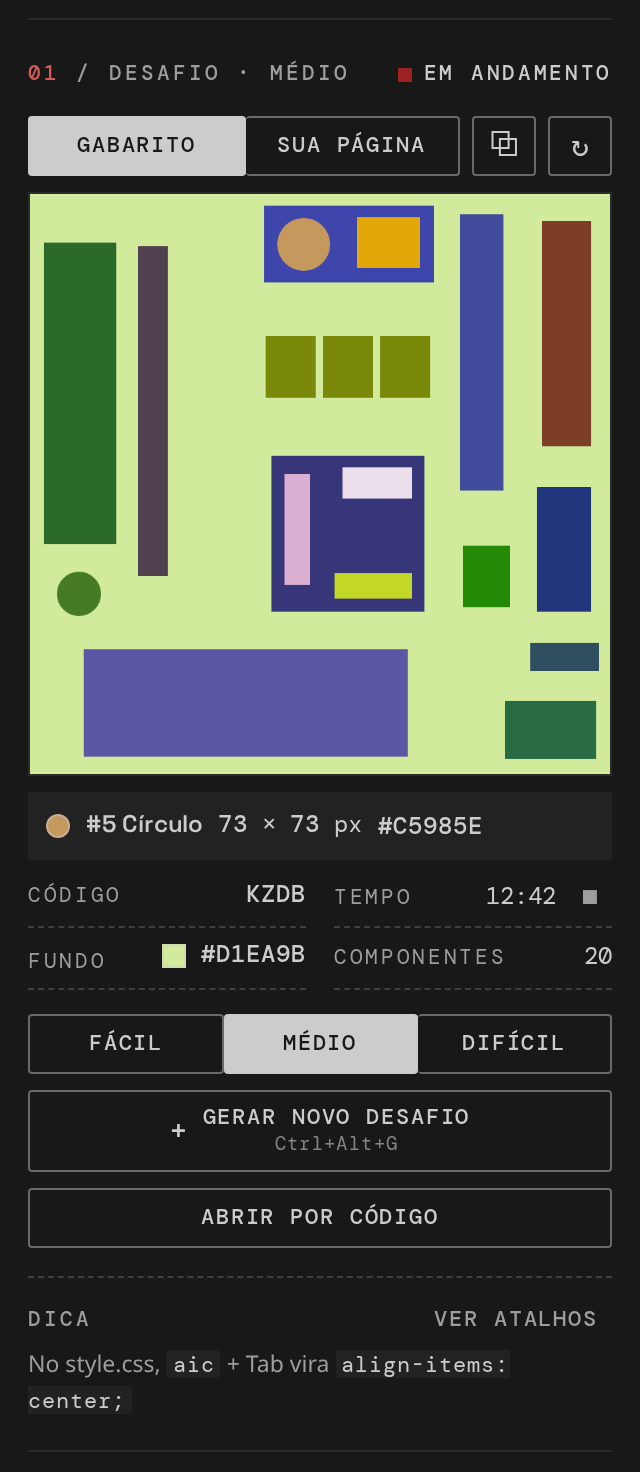
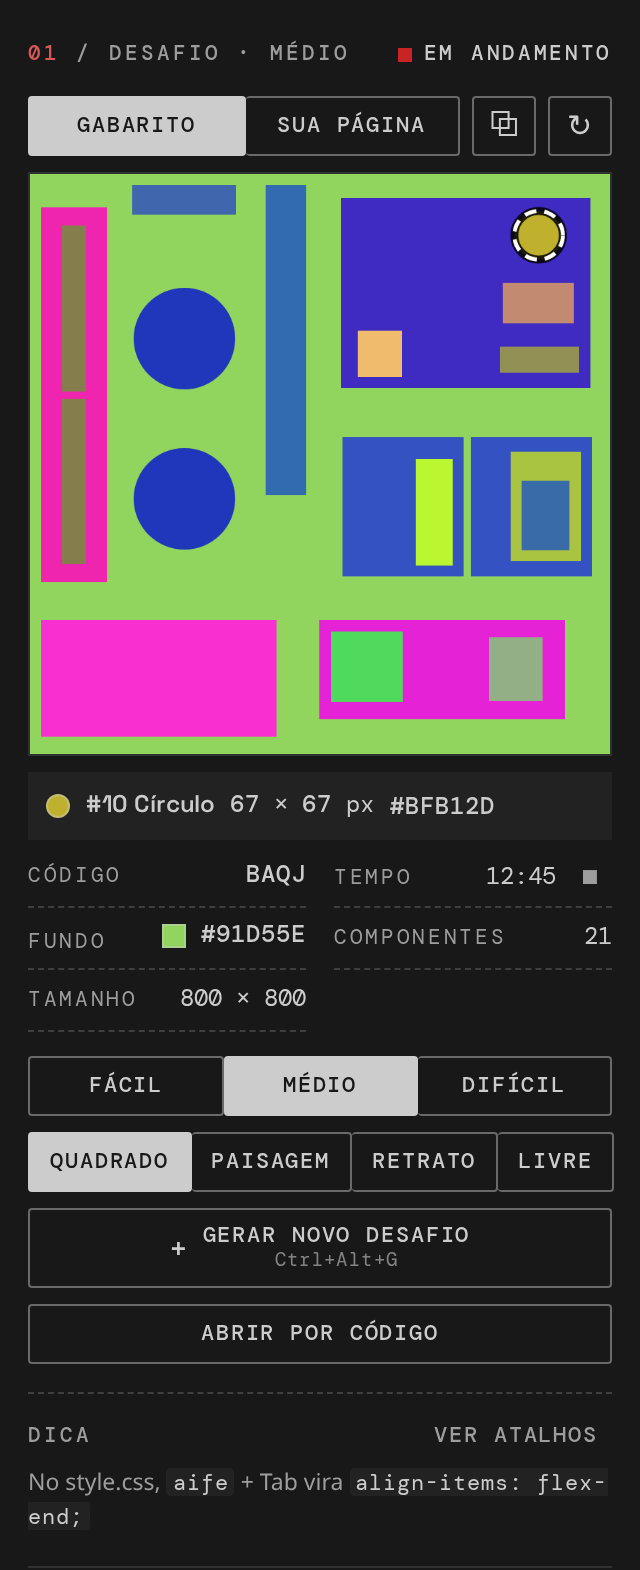
versão 0.9.0

diff --git a/extensao/docs/MANUAL.md b/extensao/docs/MANUAL.md
@@ -14,7 +14,7 @@ Tudo sobre a extensão: instalação, uso, regras, comandos, configurações, pr
 
 ## O que ela faz
 
-- Gera desafios aleatórios com cabeçalhos, colunas, grades de cartões e fileiras de círculos, em três níveis (fácil, médio e difícil) e em três formatos prontos: quadrado (800 × 800 px), paisagem (1280 × 720 px, como uma tela de computador) e retrato (450 × 800 px, como um celular em pé). No formato livre, você escolhe a largura (de 300 a 1800 px) e a altura (de 300 a 1200 px).
+- Gera desafios aleatórios com cabeçalhos, colunas, grades de cartões e fileiras de círculos, em três níveis (fácil, médio e difícil) e em três formatos prontos: quadrado (800 × 800 px), paisagem (1280 × 720 px, como uma tela de computador) e retrato (450 × 800 px, como um celular em pé). No formato livre, você escolhe a largura (de 400 a 1800 px) e a altura (de 400 a 1200 px).
 - Mostra o tamanho e a cor de cada componente do gabarito, na barra lateral ou em uma aba do editor.
 - Atualiza a pré-visualização da sua página enquanto você digita, sem precisar salvar.
 - Compara o gabarito com a sua página, sobrepostos ou lado a lado.
@@ -46,7 +46,7 @@ Instalada pela loja, a extensão se atualiza sozinha, como as outras extensões 
 ### Pelo arquivo `.vsix` (sem acesso à loja)
 
 1. Baixe o arquivo `.vsix` da versão mais nova, em [Releases](https://github.com/josebruno10/flexbox-trainer/releases/latest) (em **Assets**).
-2. No VS Code, abra **Extensões** (`Ctrl+Shift+X`), clique nos **⋯** do topo do painel e escolha **Instalar do VSIX...**. Ou, no terminal: `code --install-extension flexbox-trainer-0.8.0.vsix`.
+2. No VS Code, abra **Extensões** (`Ctrl+Shift+X`), clique nos **⋯** do topo do painel e escolha **Instalar do VSIX...**. Ou, no terminal: `code --install-extension flexbox-trainer-0.9.0.vsix`.
 3. Abra uma pasta para treinar (**Arquivo → Abrir Pasta**). Pode ser uma pasta vazia: a extensão cria o `index.html` e o `style.css`.
 
 Para atualizar, instale o `.vsix` novo do mesmo jeito. Uma vez por dia, a extensão confere no GitHub se saiu uma versão nova e avisa. No VS Code desktop, **Atualizar** baixa e instala a versão nova; depois, é só recarregar a janela. No VS Code pelo navegador, **Baixar** abre a página da versão. A consulta não envia nada seu. Na primeira vez que uma versão nova abre, a extensão avisa, com o link do que mudou.
@@ -83,7 +83,7 @@ Na primeira vez que a extensão roda, ela abre o **guia de primeiros passos**, q
 
 ## Como treinar
 
-1. Escolha o nível logo acima de **Gerar novo desafio**: **Fácil**, **Médio** ou **Difícil**. Nos mais fáceis saem os componentes menores, que dão mais trabalho (75% deles no fácil, sem nunca ficar com menos de 8, e 30% no médio); o difícil tem todos. Embaixo, escolha o formato da imagem: **Quadrado** (800 × 800 px), **Paisagem** (1280 × 720 px), **Retrato** (450 × 800 px) ou **Livre**, que mostra os campos **Largura** (de 300 a 1800 px) e **Altura** (de 300 a 1200 px) para você escolher antes de gerar. O máximo, 1800 × 1200, é o que o professor indicou. Pare o mouse sobre o botão para ver o tamanho. As escolhas ficam guardadas e valem para os desafios novos: o tamanho de um desafio não muda depois de gerado. **Gerar novo desafio** (`Ctrl+Alt+G`) cria uma imagem nova e deixa o `index.html` e o `style.css` só com a base. Gere quantas quiser até achar um desafio para treinar; o cronômetro recomeça a cada desafio. Para treinar um desafio que alguém passou, use **Abrir por código**, logo embaixo, e digite as 4 letras.
+1. Escolha o nível logo acima de **Gerar novo desafio**: **Fácil**, **Médio** ou **Difícil**. Nos mais fáceis saem os componentes menores, que dão mais trabalho (75% deles no fácil, sem nunca ficar com menos de 8, e 30% no médio); o difícil tem todos. Embaixo, escolha o formato da imagem: **Quadrado** (800 × 800 px), **Paisagem** (1280 × 720 px), **Retrato** (450 × 800 px) ou **Livre**, que mostra os campos **Largura** (de 400 a 1800 px) e **Altura** (de 400 a 1200 px) para você escolher antes de gerar. Os limites, de 400 × 400 a 1800 × 1200, são os que o professor indicou. Pare o mouse sobre o botão para ver o tamanho. As escolhas ficam guardadas e valem para os desafios novos: o tamanho de um desafio não muda depois de gerado. **Gerar novo desafio** (`Ctrl+Alt+G`) cria uma imagem nova e deixa o `index.html` e o `style.css` só com a base. Gere quantas quiser até achar um desafio para treinar; o cronômetro recomeça a cada desafio. Para treinar um desafio que alguém passou, use **Abrir por código**, logo embaixo, e digite as 4 letras.
 2. Recrie a imagem em `index.html` e `style.css`. Pode usar flexbox, grid ou `position`: o que conta é o resultado na tela. A sua página é desenhada numa área do tamanho do gabarito (o **Tamanho** nos dados do desafio, como 800 × 800), como no torneio: o `html` e o `body` já têm esse tamanho, e o que passar dele fica de fora. Não precisa definir o tamanho da página; basta preencher essa área (por exemplo, com `height: 100%` no elemento que envolve o layout).
 3. Para consultar medidas e cores, clique em um componente do gabarito na barra lateral: clique na largura, na altura ou na cor para copiar (já com `px`). O **⧉**, ao lado de **Sua página**, abre todos numa aba. A cor do **Fundo**, nos dados do desafio, também se copia com um clique.
 4. A pré-visualização e a comparação acompanham o que você digita, sem precisar salvar. Na barra lateral, **Gabarito | Sua página** alterna os dois no mesmo quadro, o que deixa à vista onde eles diferem. Para comparar de perto, use o modo **Comparar** da aba do gabarito (veja abaixo).

diff --git a/extensao/CHANGELOG.md b/extensao/CHANGELOG.md
@@ -2,11 +2,11 @@
 
 As mudanças de cada versão do FlexBox Trainer.
 
-## [Não publicado]
+## [0.9.0] - 2026-11-22
 
 ### Desafios
 - Gerador atualizado com a versão nova do Vitor: são 8 layouts primários, e não mais 3 (entram cabeçalho com duas colunas, faixa sobre três colunas, quatro quadrantes, coluna larga com duas partes ao lado e barra com menu lateral). Os códigos passam a gerar outras imagens, e o histórico recomeça; o gráfico da evolução continua.
-- Formato da imagem, escolhido embaixo do nível: **Quadrado** (800 × 800 px, o de sempre), **Paisagem** (1280 × 720 px, como uma tela de computador), **Retrato** (450 × 800 px, como um celular em pé) ou **Livre**, com a largura (de 300 a 1800 px) e a altura (de 300 a 1200 px) que o aluno escolher antes de gerar; o máximo é o que o professor indicou. Como o nível, o formato vem do código: quem abre o código de um colega treina no mesmo tamanho. No livre, o código também tem 4 letras e é único (a extensão só usa um que ainda não existe no servidor); o tamanho vai para o servidor no primeiro Verificar, com a imagem do desafio, e é de lá que outro computador o lê. As escolhas ficam guardadas e acompanham a Sincronização de Configurações.
+- Formato da imagem, escolhido embaixo do nível: **Quadrado** (800 × 800 px, o de sempre), **Paisagem** (1280 × 720 px, como uma tela de computador), **Retrato** (450 × 800 px, como um celular em pé) ou **Livre**, com a largura (de 400 a 1800 px) e a altura (de 400 a 1200 px) que o aluno escolher antes de gerar; os limites são os que o professor indicou. Como o nível, o formato vem do código: quem abre o código de um colega treina no mesmo tamanho. No livre, o código também tem 4 letras e é único (a extensão só usa um que ainda não existe no servidor); o tamanho vai para o servidor no primeiro Verificar, com a imagem do desafio, e é de lá que outro computador o lê. As escolhas ficam guardadas e acompanham a Sincronização de Configurações.
 - O tamanho do desafio aparece nos dados, embaixo do gabarito.
 - Como no gerador do Vitor, o tamanho mínimo das partes, a margem dos elementos e as medidas dos círculos acompanham a imagem: assim, paisagem e retrato saem com mais ou menos a mesma quantidade de componentes que o quadrado. No 800 × 800, essas medidas não mudam.
 - As cores dos componentes fogem mais do cinza, como na versão nova do Vitor: a regra que separa os canais de cor passou a valer para mais e para menos.
@@ -17,6 +17,9 @@ As mudanças de cada versão do FlexBox Trainer.
 - A aba Atalhos começa pelas abreviações de HTML e de CSS; os atalhos do editor e os da extensão vêm depois.
 - Mais atalhos do próprio VS Code na aba Atalhos e nas dicas, agora em grupos: vários cursores, andar e selecionar (palavra a palavra com `Ctrl+Shift+→`, aumentar a seleção com `Shift+Alt+→`), linhas (copiar para cima ou para baixo, recortar a linha, abrir linha em cima, recuo), desfazer e refazer (`Ctrl+Z`) e arquivos (`Ctrl+Tab` entre o HTML e o CSS, `Ctrl+\` para dividir o editor).
 - Mais abreviações Emmet: no HTML, `.pai>.filho`, `.item*3`, `.caixa*2>.item*2` e `.item$$*3`; no CSS, `fxdr`, `jcspar` (`space-around`), `jcsev` (`space-evenly`), `aife`, `asc`, `acc`, `fxg1`, `fxs0`, `fxb200`, `gap10-20`, `maw100`, `mla`, `bg#fff`, `r0`, `b0` e `z1`.
+
+### Para quem desenvolve
+- O provedor da barra lateral (`provider/provedorBarraLateral.ts`) foi dividido: o começo do desafio e a restauração de cópias foram para `provider/barraLateral/inicioDoDesafio.ts`, o salvamento no servidor para `salvamentoAutomatico.ts`, a regra da alteração fora do editor para `regras.ts` e a montagem da verificação para `verificacao.ts`. O gerador ganhou `services/gerador/layouts.ts` (os layouts primários) e `medidas.ts` (os tamanhos que acompanham a imagem).
 
 ## [0.8.0] - 2026-11-20
 
